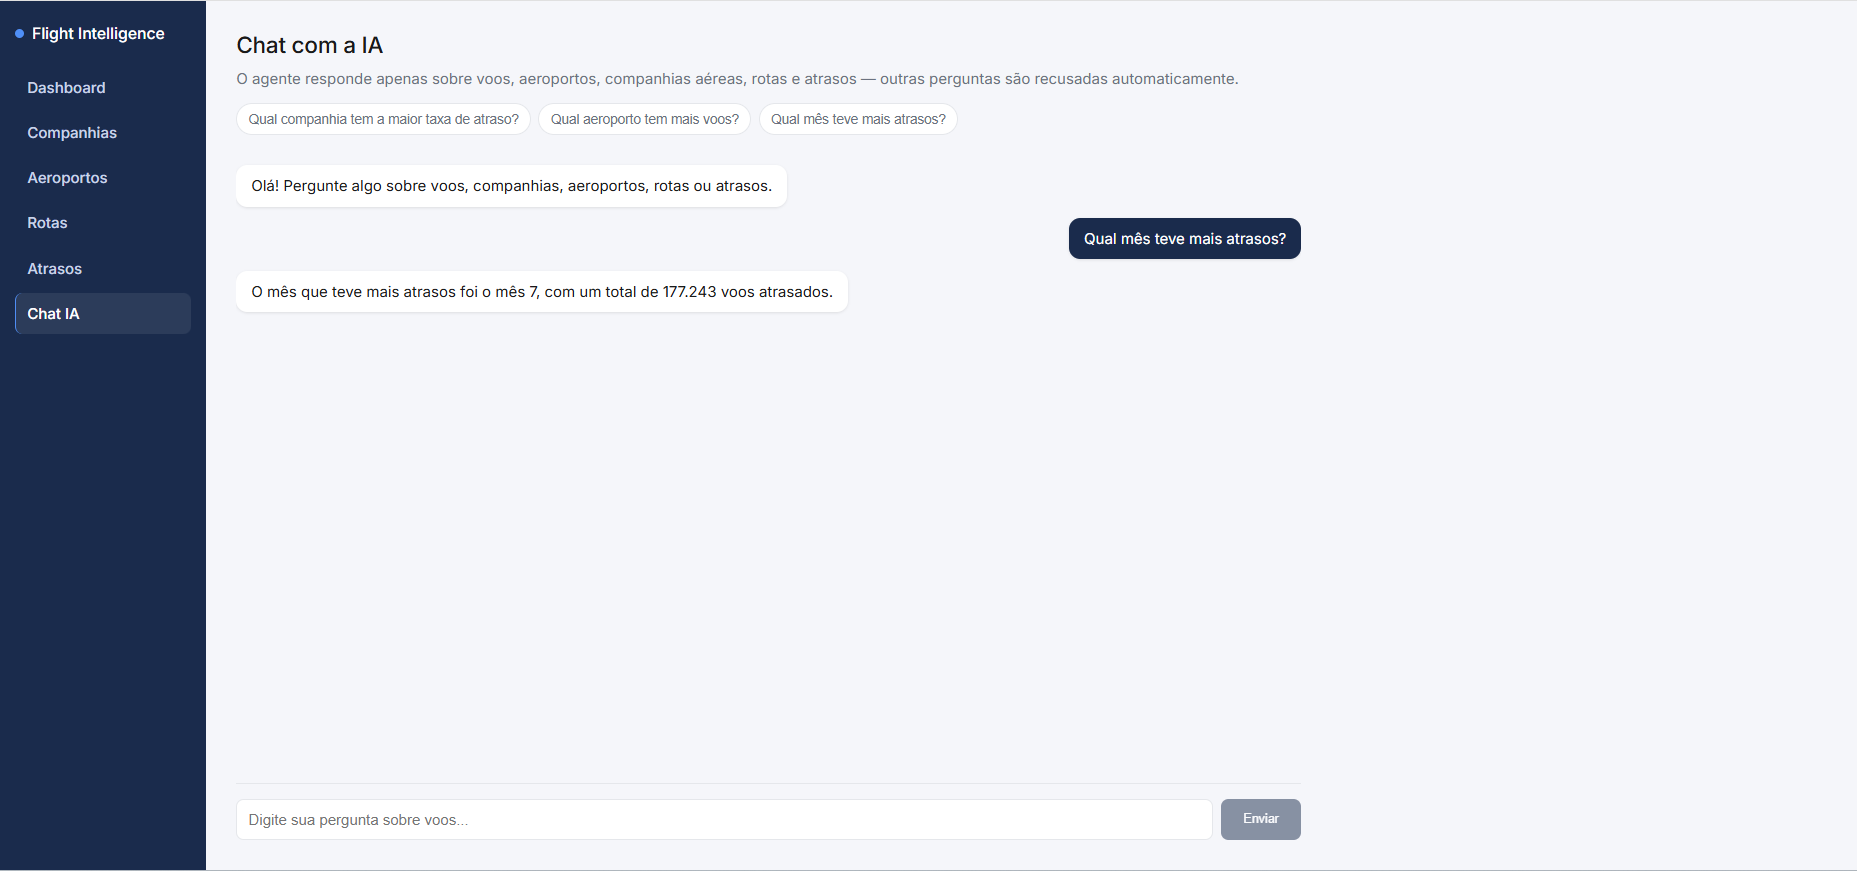
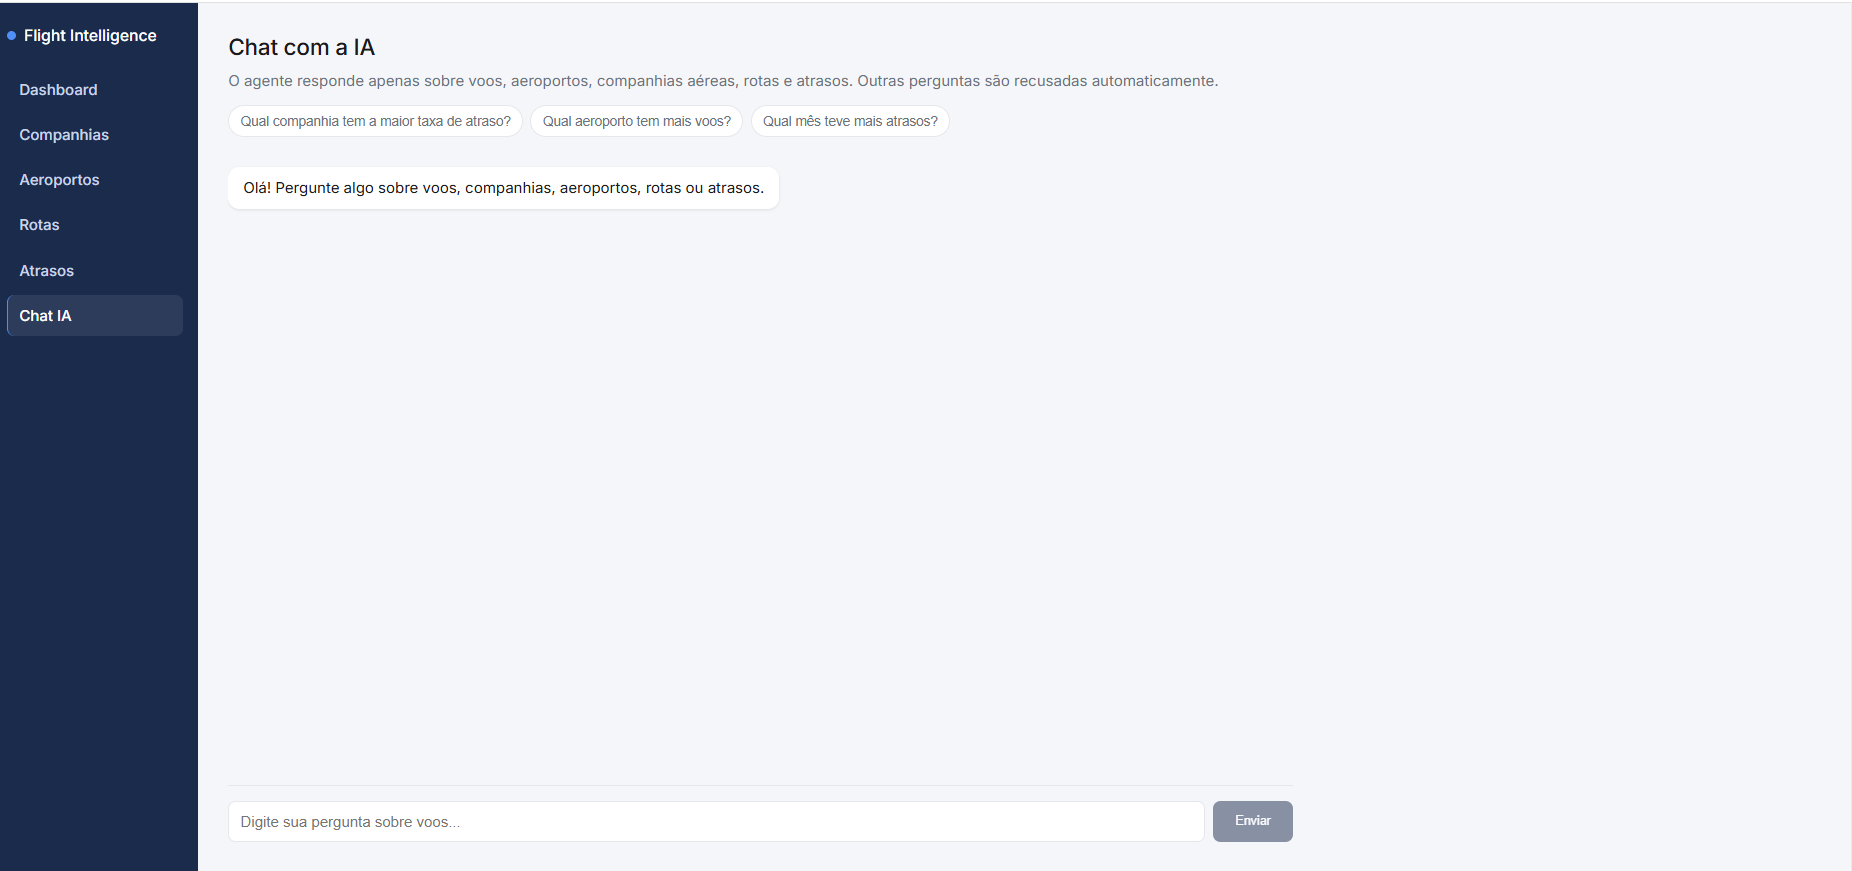
docs: ajusta imagem chat

diff --git a/frontend/src/pages/Chat.tsx b/frontend/src/pages/Chat.tsx
@@ -67,7 +67,7 @@ export default function Chat() {
       <h2>Chat com a IA</h2>
       <p className="chat__hint">
         O agente responde apenas sobre voos, aeroportos, companhias aéreas,
-        rotas e atrasos — outras perguntas são recusadas automaticamente.
+        rotas e atrasos. Outras perguntas são recusadas automaticamente.
       </p>
 
       <div className="chat__examples">
